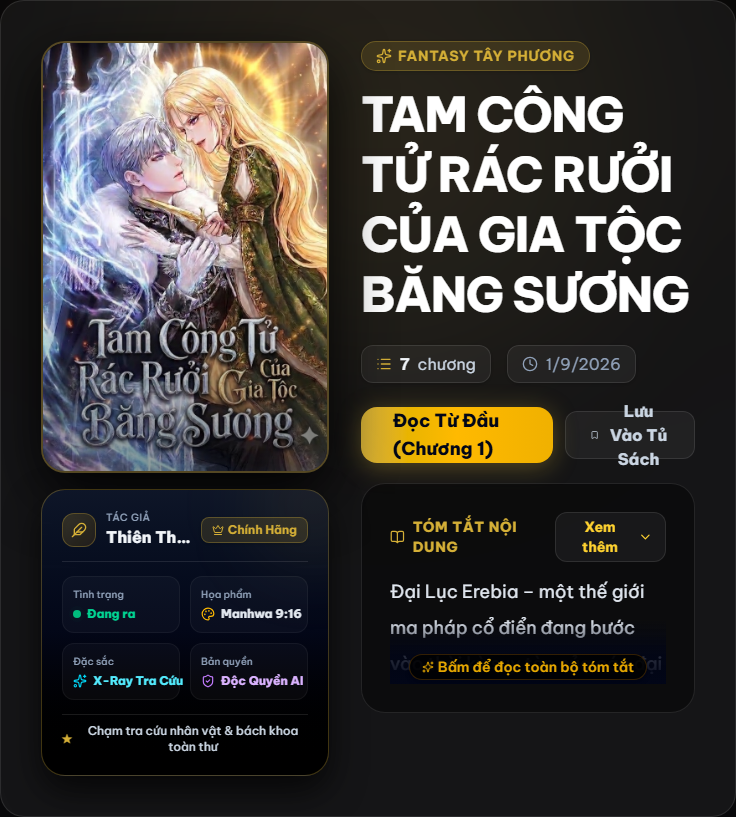
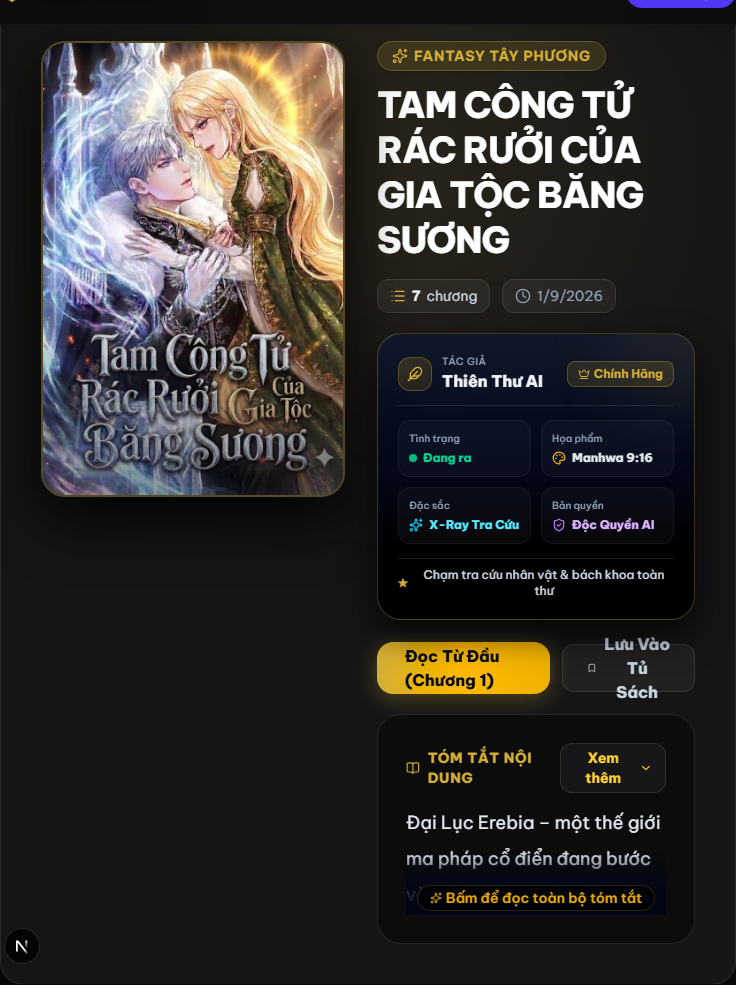
feat(ui): redesign story detail hero layout to perfectly align left poster cover with right specs and summary column

diff --git a/src/app/truyen/[slug]/page.tsx b/src/app/truyen/[slug]/page.tsx
@@ -230,9 +230,9 @@ export default async function StoryDetail({
         </div>
 
         {/* DESKTOP LAYOUT (>= sm) */}
-        <div className="hidden sm:flex sm:flex-row gap-6 sm:gap-8 lg:gap-10 items-start">
-          {/* Left Column: Story Cover Poster + Quick Specs Panel */}
-          <div className="w-56 sm:w-64 md:w-72 lg:w-80 flex flex-col gap-4 shrink-0">
+        <div className="hidden sm:flex sm:flex-row gap-6 sm:gap-8 lg:gap-10 items-stretch">
+          {/* Left Column: Story Cover Poster ONLY (Clean 2:3 aspect ratio matching right column height) */}
+          <div className="w-60 sm:w-68 md:w-76 lg:w-84 shrink-0 flex flex-col justify-start">
             {/* Story Cover Poster */}
             <div className="relative aspect-[2/3] w-full rounded-2xl sm:rounded-3xl overflow-hidden shadow-[0_20px_60px_rgba(0,0,0,0.9)] border-2 border-[#d4af37]/40 hover:border-[#d4af37] group bg-slate-950 transition-all duration-300">
               {story.coverUrl ? (
@@ -253,50 +253,52 @@ export default async function StoryDetail({
               )}
               <div className="absolute inset-0 bg-gradient-to-t from-black/80 via-transparent to-transparent opacity-50 pointer-events-none" />
             </div>
-
-            {/* Quick Specs / Luxury Attributes Card (Below Story Cover) */}
-            <StorySpecsCard className="w-full" />
           </div>
 
-          {/* Right Column: Story Info Details & Expandable Summary */}
-          <div className="flex-1 space-y-4 sm:space-y-5 text-left w-full">
-            <div>
-              <div className="inline-flex items-center gap-1.5 px-3.5 py-1 rounded-full bg-[#d4af37]/15 border border-[#d4af37]/30 text-[#d4af37] text-xs sm:text-sm font-bold uppercase tracking-wider mb-2.5 sm:mb-3.5 shadow-sm">
-                <Sparkles className="w-4 h-4" />
-                {story.genre || 'Tiên Hiệp'}
+          {/* Right Column: Story Info Details, Specs Card, Action Buttons & Expandable Summary */}
+          <div className="flex-1 flex flex-col justify-between space-y-4 sm:space-y-5 text-left w-full">
+            <div className="space-y-3 sm:space-y-4">
+              <div>
+                <div className="inline-flex items-center gap-1.5 px-3.5 py-1 rounded-full bg-[#d4af37]/15 border border-[#d4af37]/30 text-[#d4af37] text-xs sm:text-sm font-bold uppercase tracking-wider mb-2.5 sm:mb-3 shadow-sm">
+                  <Sparkles className="w-4 h-4" />
+                  {story.genre || 'Tiên Hiệp'}
+                </div>
+                <h1 className="text-2xl sm:text-3xl md:text-4xl lg:text-5xl font-extrabold text-white tracking-tight leading-tight">
+                  {story.title}
+                </h1>
               </div>
-              <h1 className="text-3xl sm:text-4xl md:text-5xl lg:text-6xl font-extrabold text-white tracking-tight leading-tight sm:leading-tight">
-                {story.title}
-              </h1>
+
+              {/* Badges / Meta row */}
+              <div className="flex flex-wrap items-center justify-start gap-3 text-xs sm:text-sm text-slate-300">
+                <div className="flex items-center gap-1.5 bg-white/5 border border-white/10 px-3 py-1.5 rounded-xl shadow-sm">
+                  <List className="w-4 h-4 text-[#d4af37]" />
+                  <span className="font-bold text-slate-100">{story.chapters.length}</span> chương
+                </div>
+                <div className="flex items-center gap-1.5 bg-white/5 border border-white/10 px-3 py-1.5 rounded-xl text-slate-400 shadow-sm">
+                  <Clock className="w-4 h-4 text-slate-400" />
+                  <span>{story.updatedAt.toLocaleDateString('vi-VN')}</span>
+                </div>
+              </div>
             </div>
 
-            {/* Badges / Meta row */}
-            <div className="flex flex-wrap items-center justify-start gap-3 sm:gap-4 text-sm sm:text-base text-slate-300">
-              <div className="flex items-center gap-2 bg-white/5 border border-white/10 px-3.5 py-1.5 rounded-xl shadow-sm">
-                <List className="w-4 h-4 text-[#d4af37]" />
-                <span className="font-bold text-slate-100">{story.chapters.length}</span> chương
-              </div>
-              <div className="flex items-center gap-2 bg-white/5 border border-white/10 px-3.5 py-1.5 rounded-xl text-slate-400 shadow-sm">
-                <Clock className="w-4 h-4 text-slate-400" />
-                <span>{story.updatedAt.toLocaleDateString('vi-VN')}</span>
-              </div>
-            </div>
+            {/* Quick Specs / Luxury Attributes Card (Seamlessly Integrated in Right Column) */}
+            <StorySpecsCard className="w-full" />
 
             {/* Action Buttons */}
             {story.chapters.length > 0 && (
-              <div className="pt-1 flex flex-row items-center gap-3">
+              <div className="pt-0.5 flex flex-row items-center gap-3">
                 {lastReadChapter ? (
                   <Link 
                     href={`/truyen/${story.slug}/${lastReadChapter.chapterNo}`}
-                    className="inline-flex items-center justify-center gap-2 bg-gradient-to-r from-[#d4af37] via-amber-400 to-yellow-500 hover:brightness-110 text-slate-950 font-extrabold h-13 sm:h-14 min-h-[52px] px-8 rounded-2xl shadow-[0_4px_25px_rgba(212,175,55,0.35)] transition-all transform hover:-translate-y-0.5 active:scale-98 text-base sm:text-lg cursor-pointer"
+                    className="inline-flex items-center justify-center gap-2 bg-gradient-to-r from-[#d4af37] via-amber-400 to-yellow-500 hover:brightness-110 text-slate-950 font-extrabold h-12 sm:h-13 min-h-[48px] px-7 rounded-2xl shadow-[0_4px_25px_rgba(212,175,55,0.35)] transition-all transform hover:-translate-y-0.5 active:scale-98 text-sm sm:text-base cursor-pointer"
                   >
                     Đọc tiếp #{lastReadChapter.chapterNo}
-                    <ChevronRight className="w-5 h-5" />
+                    <ChevronRight className="w-4 h-4" />
                   </Link>
                 ) : (
                   <Link 
                     href={`/truyen/${story.slug}/${story.chapters[0].chapterNo}`}
-                    className="inline-flex items-center justify-center gap-2 bg-gradient-to-r from-[#d4af37] via-amber-400 to-yellow-500 hover:brightness-110 text-slate-950 font-extrabold h-13 sm:h-14 min-h-[52px] px-8 rounded-2xl shadow-[0_4px_25px_rgba(212,175,55,0.35)] transition-all transform hover:-translate-y-0.5 active:scale-98 text-base sm:text-lg cursor-pointer"
+                    className="inline-flex items-center justify-center gap-2 bg-gradient-to-r from-[#d4af37] via-amber-400 to-yellow-500 hover:brightness-110 text-slate-950 font-extrabold h-12 sm:h-13 min-h-[48px] px-7 rounded-2xl shadow-[0_4px_25px_rgba(212,175,55,0.35)] transition-all transform hover:-translate-y-0.5 active:scale-98 text-sm sm:text-base cursor-pointer"
                   >
                     Đọc Từ Đầu (Chương 1)
                   </Link>
